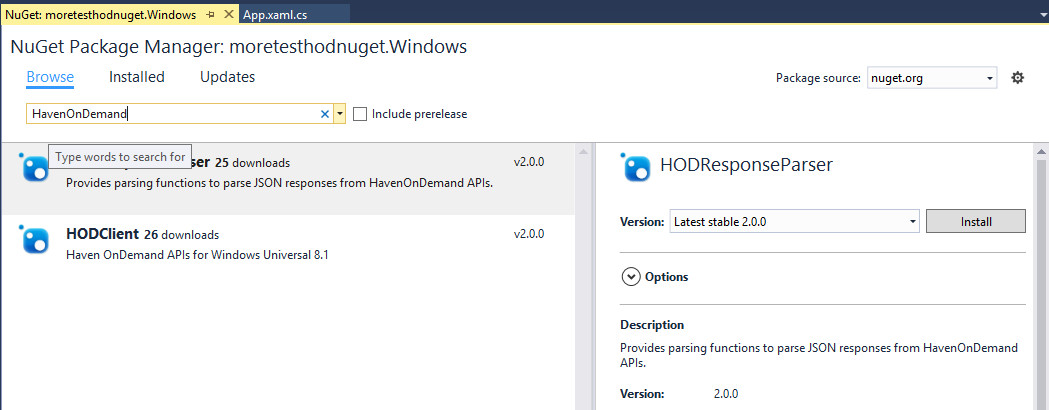
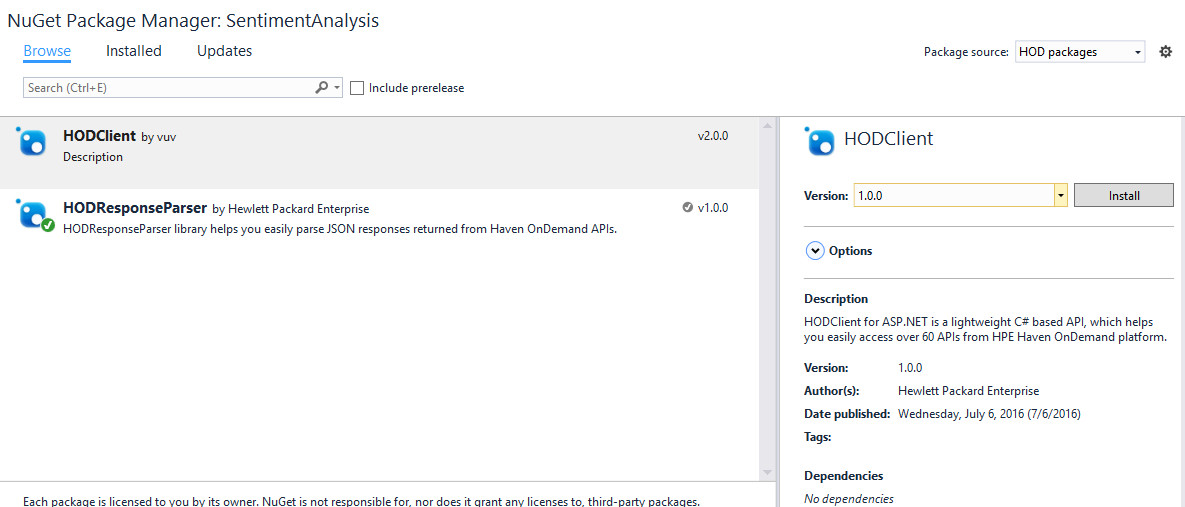
Update readme file and images

diff --git a/README.md b/README.md
@@ -1,4 +1,4 @@
-# HavenOnDemand library for Windows Universal 8.1. V2.0
+# HavenOnDemand library for ASP.NET V1.0
 
 ----
 ## Overview
@@ -13,7 +13,7 @@ HODResponseParser package for parsing JSON responses from HavenOnDemand APIs. To
 HODClient library support the .NET 4.5 and above.
 
 ----
-## Integrate HODClient into a Windows/Windows Phone project
+## Integrate HODClient into an ASP.NET project
 1. Right click on the project's References folder and select "Manage Nuget Packages...".
 >![](/images/managenuget.jpg)
 
@@ -52,12 +52,11 @@ HODClient library support the .NET 4.5 and above.
 
 >If your server are behind a firewall, provide the proxy when creating the HODClient instance
 >E.g.:
-   
-   MyProxy myProxy = new MyProxy(new Uri("proxyaddress:port"));
-   // if require login credentials
-   myProxy.Credentials = new System.Net.NetworkCredential("username", "password", "domain");
-
-   HODClient hodClient = new HODClient("your-api-key", myProxy);
+```   
+MyProxy myProxy = new MyProxy(new Uri("proxyaddress:port"));
+// if require login credentials
+myProxy.Credentials = new System.Net.NetworkCredential("username", "password", "domain");
+HODClient hodClient = new HODClient("your-api-key", myProxy);
 
 ----
 **Function GetRequest**
@@ -131,13 +130,13 @@ await hodClient.GetRequest(Params, hodApp, HODClient.REQ_MODE.SYNC);
 
 > Note:
 
-> 1. In the case of the "file" parameter, the value must be a Dictionary<string,object> object, where string will be the filename and object is the file InputStream.
+> In the case of the "file" parameter, the value must be a Dictionary<string,object> object, where string will be the filename and object is the file InputStream.
 > E.g.:
 
     Dictionary<string, object> file = new Dictionary<string, object>();
     file.Add(File1.PostedFile.FileName, File1.PostedFile.InputStream);
     
-> 2. For a parameter with its type is an array<>, the parameter must be defined in a List\<object\>.
+> For a parameter with its type is an array<>, the parameter must be defined in a List\<object\>.
 > E.g.:
 
     var entity_type = new List<object>();
